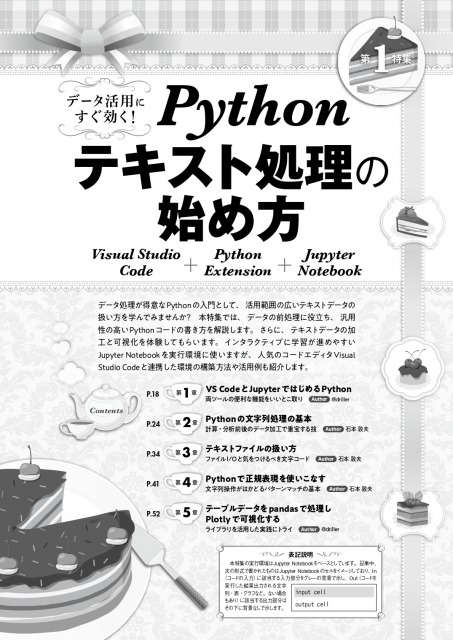
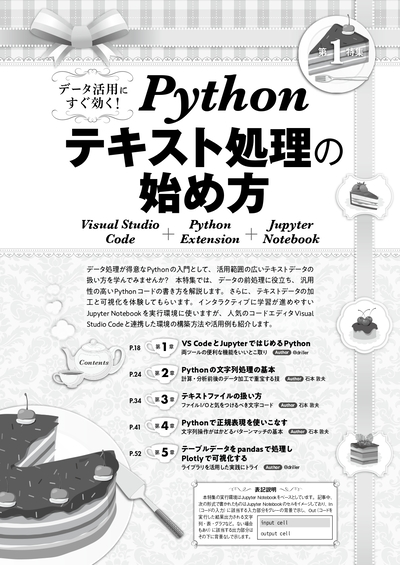
表紙の書影を追加

diff --git a/README.md b/README.md
@@ -1,8 +1,12 @@
 # Software Design 2020年2月号
 
-[![thumbnail](images/sp1-tobira-thumbnail.jpg)](images/sp1-tobira.jpg)
+表紙|章扉
+-----|--------
+[![hyoshi](images/642002-thumbnail.jpg)](images/642002.jpg)|[![thumbnail](images/sp1-tobira-thumbnail.jpg)](images/sp1-tobira.jpg)
 
 ## 第5章 テーブルデータをpadnasで処理しPlotlyで可視化する
+
+第5章のサンプルコードです。binderやColabのリンクからコードをブラウザ上から実行できます。
 
 項目|リンク
 -----|--------
